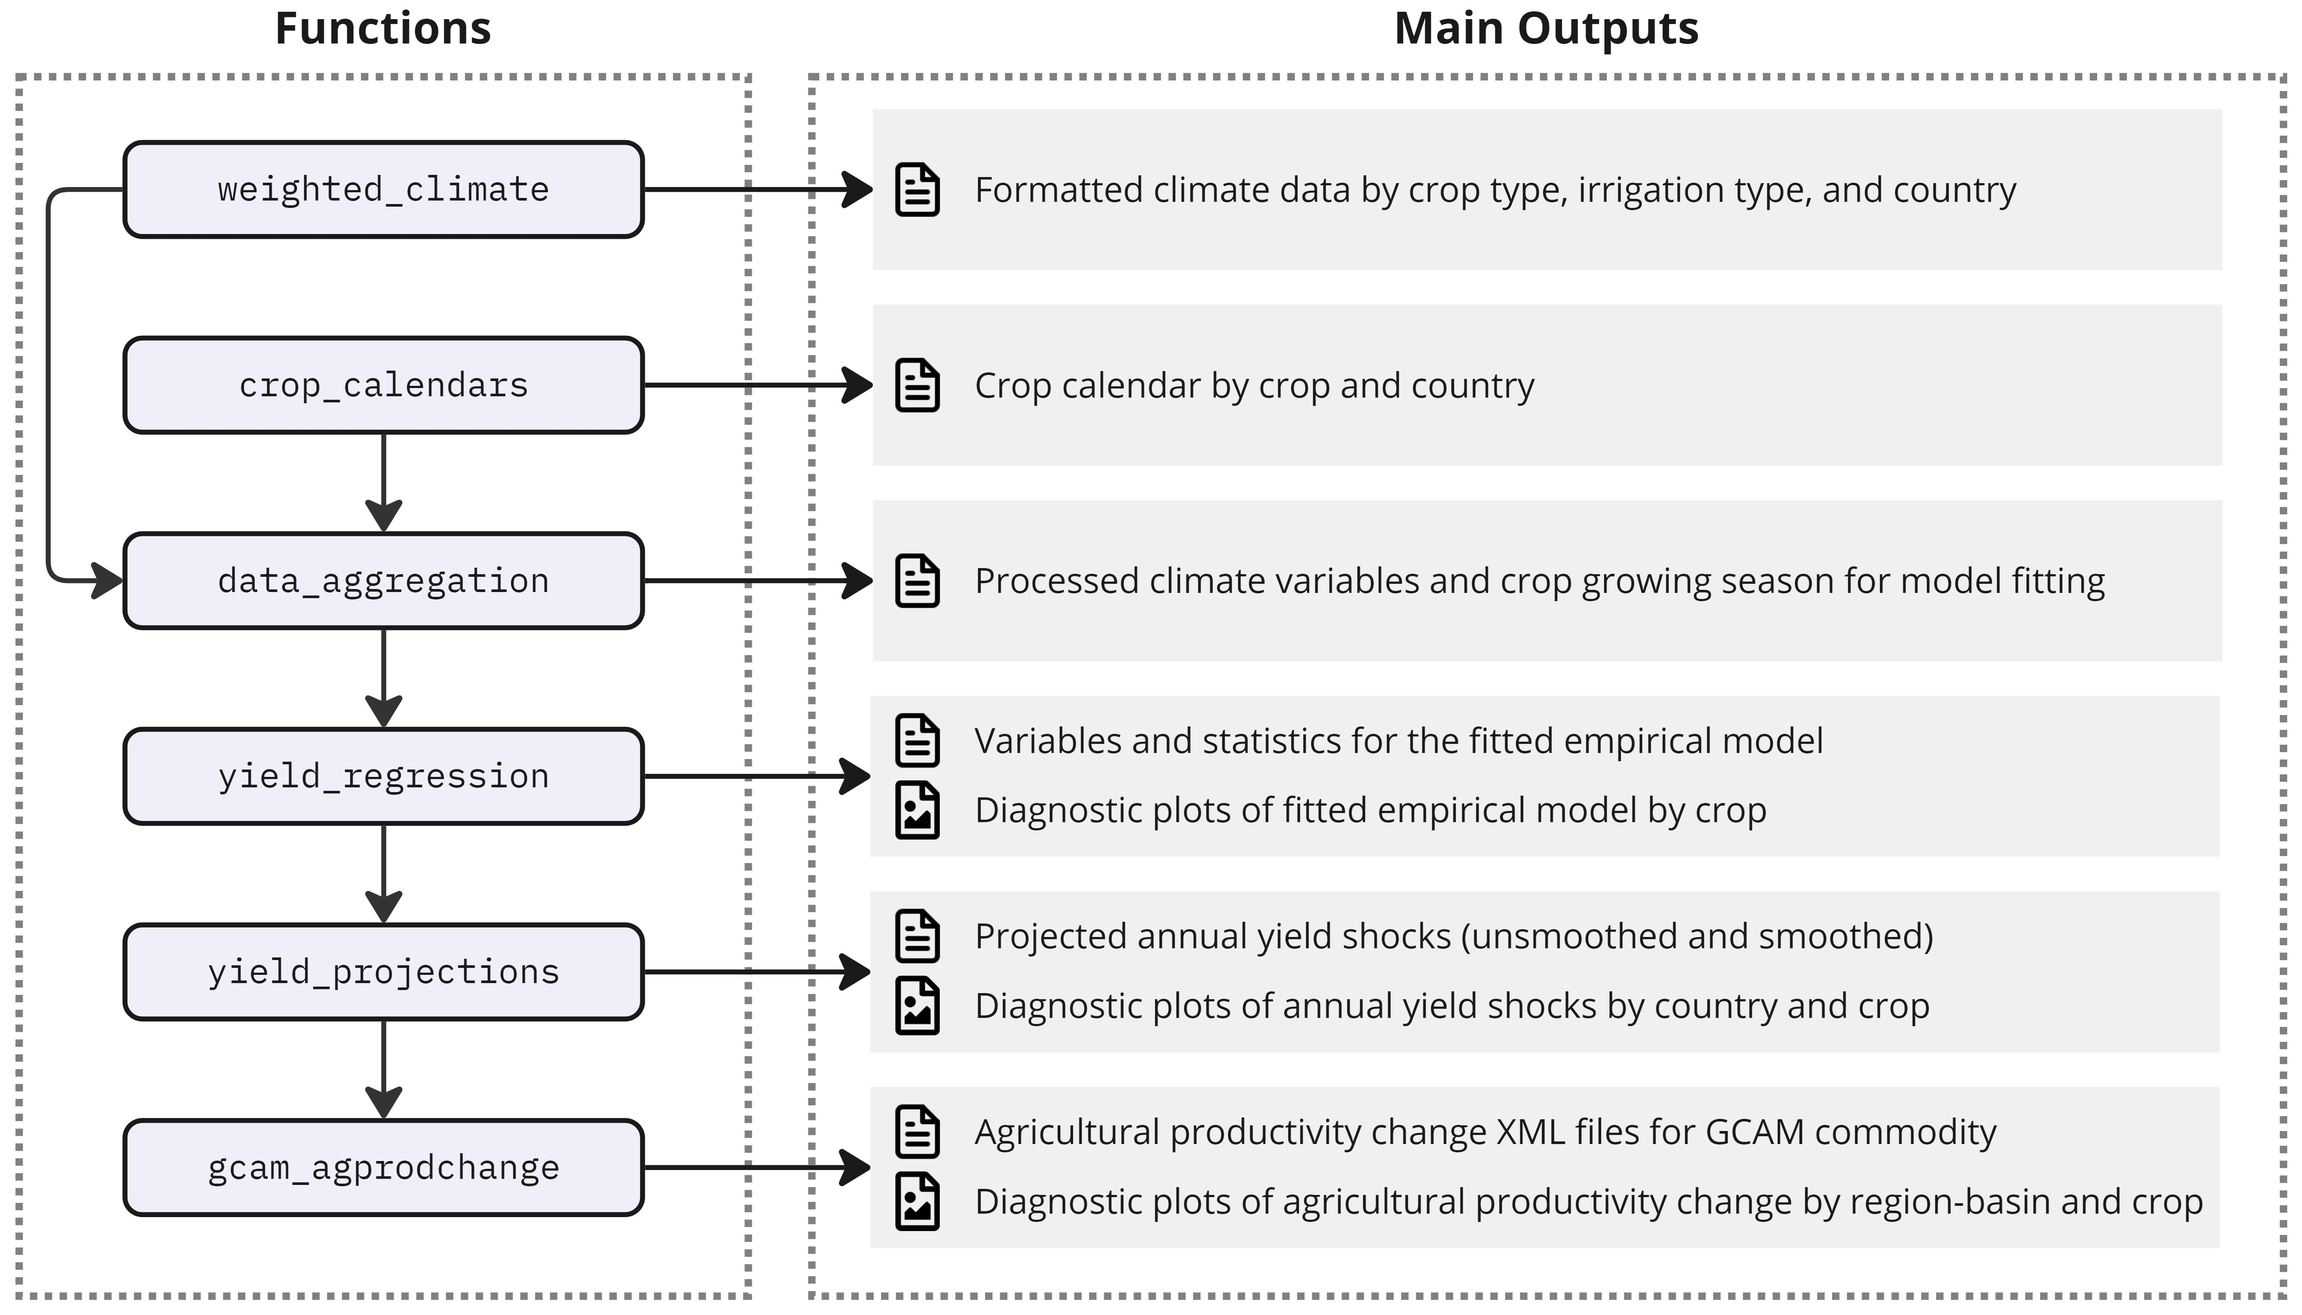
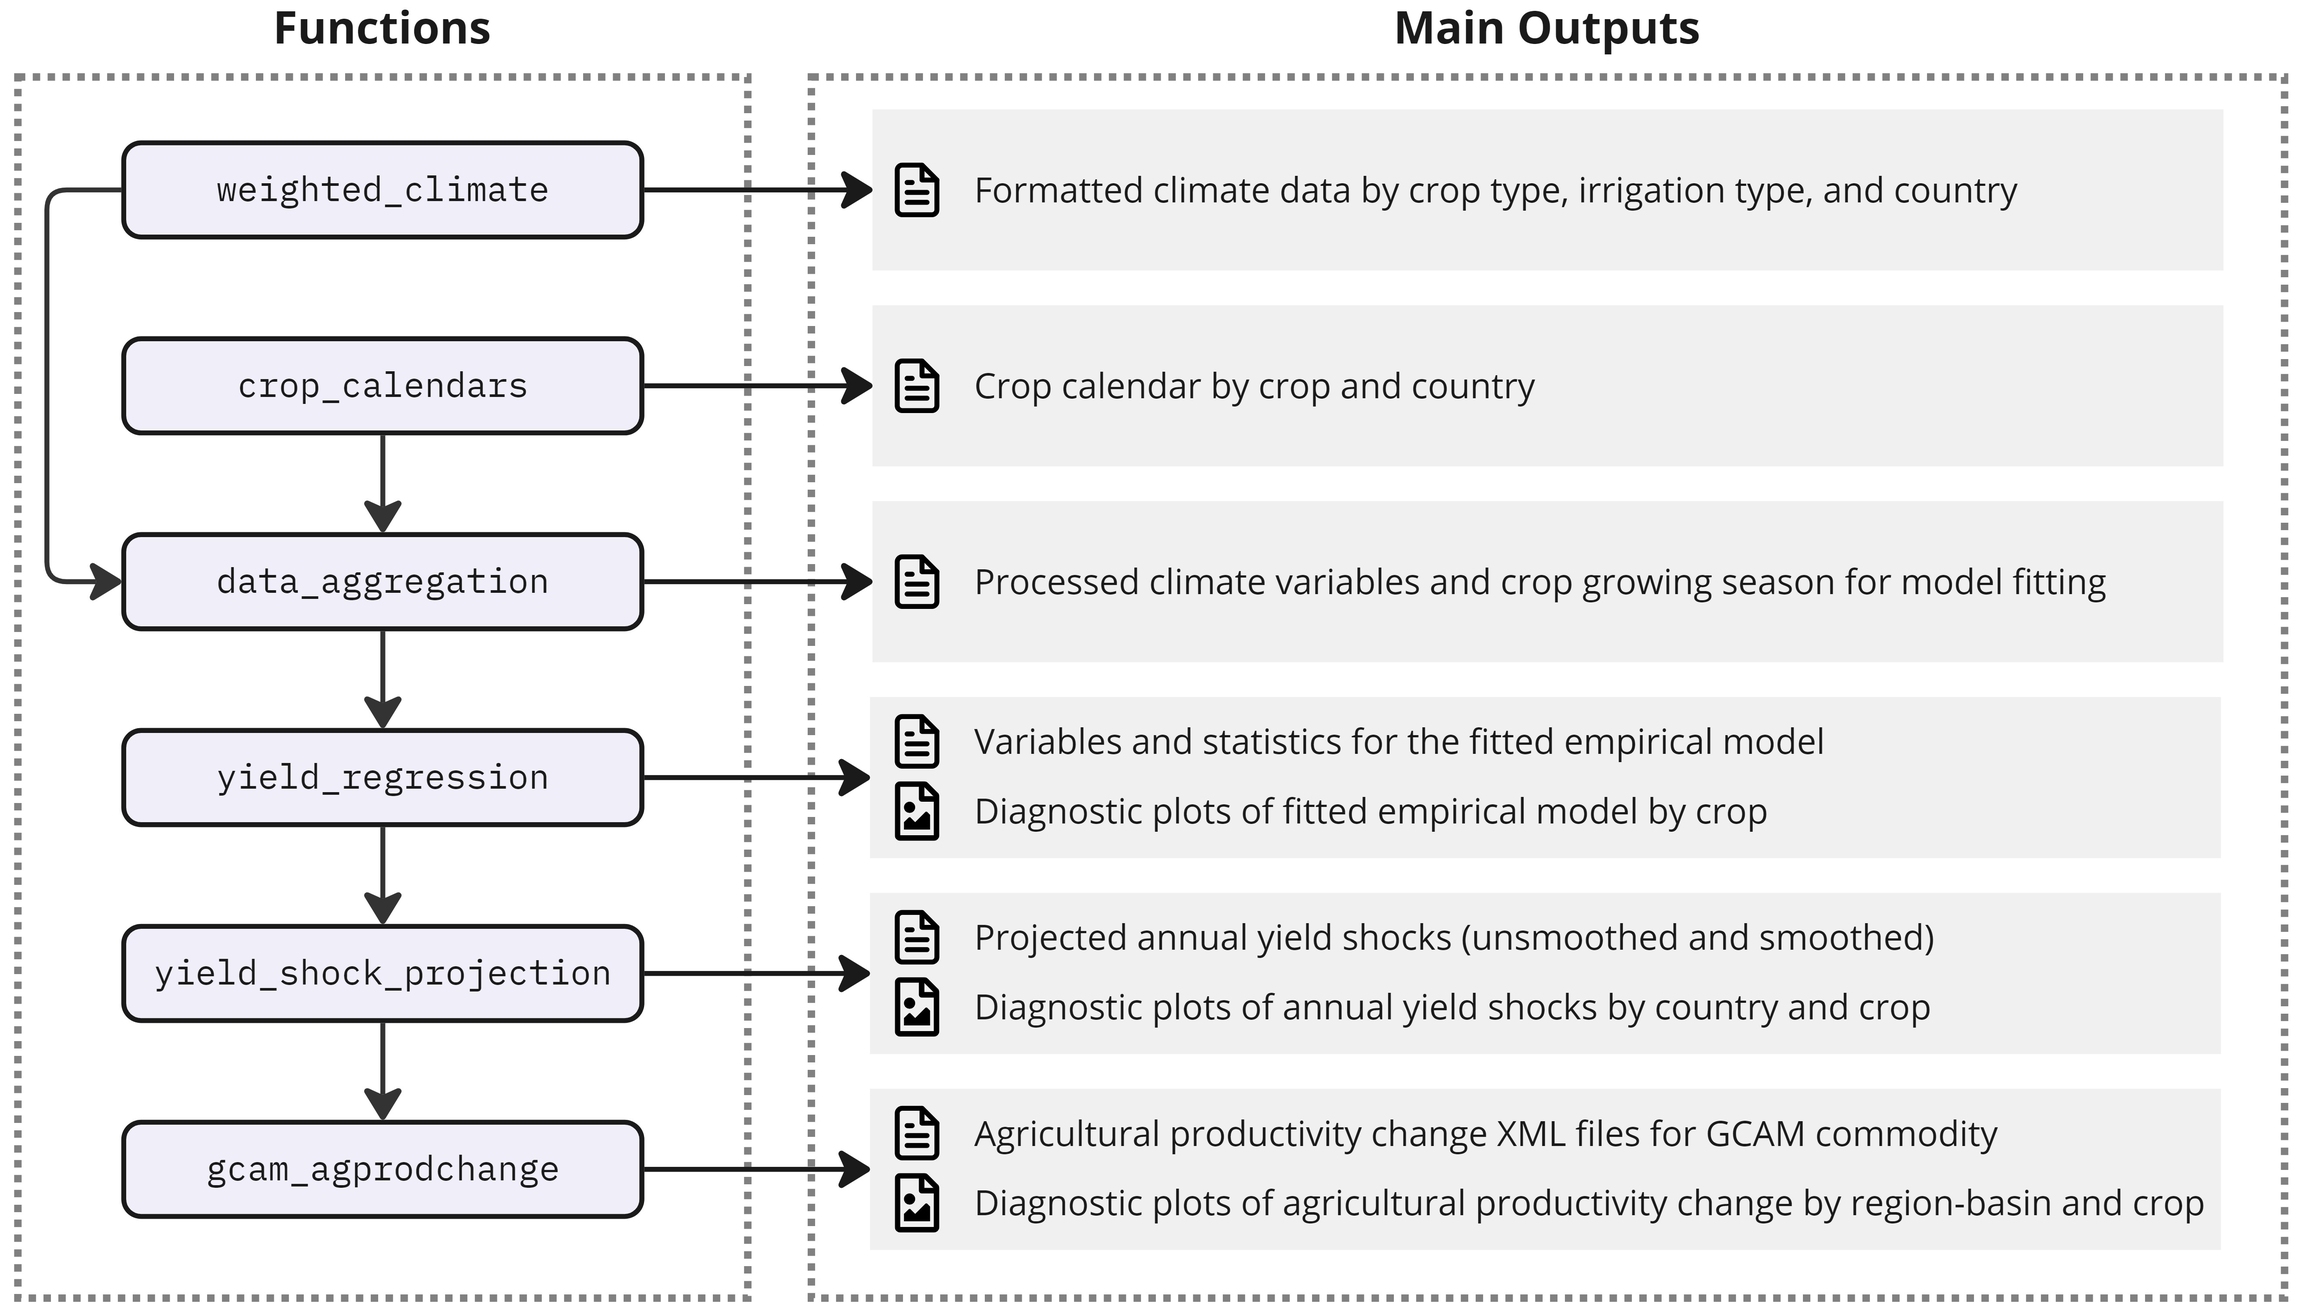
Update paper

diff --git a/paper/paper.md b/paper/paper.md
@@ -1,5 +1,5 @@
 ---
-title: 'gaea: An R package to estimate crop yield responses to temperature and precipitation'
+title: 'gaia: An R package to estimate crop yield responses to temperature and precipitation'
 
 tags:
   - 
@@ -20,41 +20,47 @@ authors:
 affiliations:
  - name: Pacific Northwest National Laboratory, Richland, WA, USA
    index: 1
- - name: Joint Global Change Research Institute, Pacific Northwest National Laboratory, College Park, MD, USA
+ - name: Pacific Northwest National Laboratory, Joint Global Change Research Institute, College Park, MD, USA
    index: 2
-date: July 2024
+date: 2024
 bibliography: paper.bib
 ---
 
 # Summary
 
-`gaea` is an open-source R package designed to estimate crop yield shocks in response to annual climate variations and CO2 concentrations at the country scale for 12 major crops. This innovative tool streamlines the workflow from raw climate data processing to the production of different forms of yield shock, such as agricultural productivity changes at the region-basin level, which can be directly integrated into the latest Global Change Analysis Model (GCAM) [@Bond-Lamberty_2024; @Calvin_2019]. At its core, `gaea` employs an empirical econometric model that leverages historical crop yield data (e.g., from [FAOSTAT](https://www.fao.org/faostat/en/#data/QCL)) and climate data for robust empirical fitting across diverse country-crop-climate combinations. `gaea` is fully compatible with the widely-used climate data from the Coupled Model Intercomparison Project Phase 6 (CMIP6), bias-adjusted by the Inter-Sectoral Impact Model Intercomparison Project ([ISIMIP](https://www.isimip.org/)). For future projections, the package aggregates global gridded precipitation and temperature data to the national level, weighted by cropland area derived from MIRCA [@Portmann_2010]. This approach enables the projection of annual yield shocks under various future climate scenarios, differentiated by crop type, country, and time. More broadly, `gaea` serves as a lightweight yet powerful model that equips researchers with the tools to explore the possibility space of global crop yields responses to future climate uncertainties, enhancing human-Earth system analysis capabilities.
+`gaia` is an open-source R package designed to estimate crop yield shocks in response to annual weather variations and CO^2 concentrations at the country scale for 12 major crops. It enables the projection of annual yield shocks under various future climate scenarios, differentiated by crop type, country, and year. This innovative tool streamlines the workflow from raw climate data processing to projections of annual shocks to crop yields at the country level, using the response surfaces developed and documented in @Waldhoff_2020, an empirical econometric model that leverages historical weather, CO^2, and crop yield data for robust empirical fitting for 12 crops. `gaia` uses these response surfaces with bias-corrected, gridded monthly temperature and precipitation projections (e.g., from the Coupled Model Intercomparison Project Phase 6 (CMIP6, @Oneil_2016) and Inter-Sectoral Impact Model Intercomparison Project (ISIMIP, @Warszawski_2014)) to project shocks that can be applied to agricultural productivity changes at the country-level for use in economic models. The historical and future projections use gridded, country-crop specific monthly growing season precipitation and temperature data, aggregated to the national level, weighted by cropland area derived from MIRCA [@Portmann_2010]. These annual, country, crop-specific yield shocks can be aggregated to different regional definitions, crop commodity definitions, and time periods (e.g., 20-year rolling-average trends), as needed by specific economic models. `gaia` serves as a lightweight, powerful model that equips researchers with projections of annual yield shocks for multiple crops, at a model-specific spatial resolution that is necessary to explore crop yields responses to a broad range of future climate projections, enhancing human-Earth system analysis capabilities.
 
 
 # Statement of need
 
-The global agricultural market, closely connected with energy and water systems, is highly responsive to climate change. Improving the representation of agricultural dynamics in global multi-sector models is the key to better understanding the human-Earth system interactions. While the impacts of mean historical and future climate change on crop yields have been extensively studied, there is a notable gap in understanding how climate variability affects crop yields and how these impacts evolve over time [@Ray_2015]. Multisector dynamics models such as GCAM, rely on exogenous inputs of yield responses to climate impacts as key drivers in simulating the co-evolution of energy, water, and land systems under future uncertainties. However, the current crop modeling landscape lacks globally comprehensive, computationally efficient, validated models capable of simulating yield responses to both inter-annual variability and long-term trends across a wide range of climate change scenarios and crop types [@Waldhoff_2020]. To address the gap, we have develop `gaea`, an empirical econometric model with capabilities to capture shocks to yields of a wide range of crops (cassava, cotton, maize, rice, potatoes, sorghum, soybean, sugarbeet, sugarcane, sunflower, and wheat) at country scales considering interannual climate variability. The detailed methodology is described in @Waldhoff_2020.
+Agricultural production is highly responsive to annual weather patterns, which are becoming increasingly variable in response to climate change (e.g. @Iizumi_2016). Agricultural markets are global, with significant volumes of international trade, and yield shocks due to this variability in one region will therefore impact others. In addition, agricultural production is closely connected with energy and water sectors. Improving the representation of agricultural production in global multi-sector dynamics models is the key to better understanding economic impacts of climate change that account for human-Earth system interactions. To better represent future agricultural production and study these interactions, multisector dynamics models, such as the Global Change Analysis Model (GCAM, @Calvin_2019, @GCAM_Documentation_2023), require projections of yield responses to changing weather patterns, which are key drivers of production and vital to understanding the co-evolution of energy, water, and land systems.
+
+Most economic, multisectoral modeling of climate change impacts on agriculture has relied on the representation of the effects of long term, gradual trends in temperature and precipitation on crop yields for a few key crops [@von-Lampe_2014]. Improved understanding of the effects of climate change on agricultural production requires projections of the impacts of annual weather changes on a broad range of crops for a range of climate projections [@Ray_2015]. However, the current crop modeling landscape lacks globally comprehensive, computationally efficient, validated models capable of simulating yield responses to both inter-annual variability and long-term trends across a wide range of climate change scenarios and crop types [@Waldhoff_2020]. To address the gap, we have developed `gaia`, which uses the empirical model described in @Waldhoff_2020. `gaia` produces projections of both future annual variations and long-term trends in yield changes at the country-level for a wide range of crops (cassava, cotton, maize, rice, potatoes, sorghum, soybean, sugar beet, sugarcane, sunflower, and wheat) using gridded monthly temperature and precipitation inputs for any future climate scenario.
 
 
 # States of the Field
 
-The exploration of future climate change impacts on agricultural production is crucial for providing insights into global food security. Various crop models, including process-based and empirical models, have been developed to simulate crop yields under different climate scenarios [@Chapagain_2022; @Rauff_2015]. @Muller_2017 conducted a global gridded crop model (GGCM) intercomparison experiment involving 14 crop models, including the widely-used Decision Support System for Agrotechnology Transfer (DSSAT) model [@Jones_2003]. DSSAT allows users to simulate diverse crop management options and associated risks by integrating knowledge on crops, soil, climate, and management practices. Another comparable tool is `osiris` [@Ahsan_2023], an emulator designed to process climate impacts on agricultural yields using gridded yield outputs from existing GGCMs. However, the yield responses to precipitation and temperature variations simulated by GGCMs are generally less sensitive compared to the reduced-form econometric models [@Mistry_2017] employed by `gaea`. In the multisector dynamics modeling field, there is a growing need for the crop models that can strike a balance between simulation fidelity and lightweight modeling capabilities. Such models are essential for exploring future climate scenarios with global coverage. `gaea` achieves this balance by employing computationally efficient statistical methods to model 12 major crops globally, while maintaining the sensitivity to capture both gradual climate changes and interannual variability impacts on crop yields.
+The exploration of effects of future climate change on agricultural production is crucial for providing insights into global food, energy, water, and economic development. Various crop models, including process-based and empirical models, have been developed to simulate crop yields under different climate scenarios [@Chapagain_2022; @Rauff_2015]. @Muller_2017 conducted a global gridded crop model (GGCM) intercomparison experiment involving 14 process-based crop models, which allow users to simulate diverse crop management options, soil types, and weather conditions. However, GGCMs require large amounts of site-specific data for calibration, making extension to many crops and regions more challenging [@Muller_2017]. In addition, these models can take significant time to run and the yield shock projections are often available for only a limited number of climate change scenarios.
+
+These considerations may limit the usefulness of yield changes from process models as inputs to global economic, multisector models, which include a wider range of crops and many future climate scenarios. In the multisector dynamics modeling field, there is a need for projections of future crop yield shocks due to changing climate and weather patterns that can strike a balance between simulation fidelity and lightweight modeling capabilities. Such models are essential for exploring a wide range of future climate scenarios with global coverage. `gaia` achieves this balance by employing computationally efficient statistical methods to model 12 major crops globally, while maintaining the sensitivity to capture both gradual climate changes and interannual variability impacts on crop yields. In addition, users can estimate yield shocks for additional crops by providing the appropriate input data.
+
 
 # Functionality
 
-`gaea` is designed with a climate-driven empirical model at its core, integrated into an efficient modular structure. This architecture streamlines the entire workflow, from initial climate and crop data processing through empirical model fitting, yield shock projections under future climate scenarios, to the calculation of agricultural productivity changes for GCAM. The modular design also facilitates comprehensive diagnostic outputs, enhancing the tool's utility for researchers and policymakers.
+`gaia` is designed as an empirical model, which is driven by monthly average growing season temperature and precipitation, integrated into an efficient modular structure. This architecture streamlines the entire workflow, from initial climate model and crop yield data inputs and processing, through empirical model fitting, yield shock projections under future climate scenarios, to the calculation of agricultural productivity changes for GCAM. The modular design also facilitates comprehensive diagnostic outputs, enhancing the tool’s utility for researchers and decision makers.
 
-The primary functionality of `gaea` is encapsulated in the `yield_impact` wrapper function, which executes the entire workflow from climate data processing to yield shock estimation. Users can also execute individual functions to work through the main steps of the process (\autoref{fig:workflow}). Detailed instructions on `gaea` can be accessed at https://jgcri.github.io/gaea.
+The primary functionality of `gaia` is encapsulated in the `yield_impact` wrapper function, which executes the entire workflow from climate data processing to yield shock estimation. Users can also execute individual functions to work through the main steps of the process (\autoref{fig:workflow}). Detailed instructions on `gaia` can be accessed at https://jgcri.github.io/gaia.
 
-1. `weighted_climate`: Processes CMIP-ISIMIP climate NetCDF data and calculates cropland-weighted precipitation and temperature at the country level, differentiated by crop type and irrigation type. The function accepts both daily or monthly climate data.
-2. `crop_calenders`: Generates crop planting months for each country based on crop calendar data [@Sacks_2010].
+
+1. `weighted_climate`: Processes CMIP-ISIMIP climate NetCDF data and calculates cropland-weighted precipitation and temperature at the country level, differentiated by crop type and irrigation type. The function accepts both daily or monthly climate data that are consistent with the CMIP-ISIMIP NetCDF data format
+2. `crop_calenders`: Generates crop planting months for each country and crop based on crop calendar data [@Sacks_2010].
 3. `data_aggregation`: Calculates crop growing seasons using climate variables processed by `weighted_climate` and crop calendars for both historical and projected periods. This function prepares climate and yield data for subsequent model fitting.
-4. `yield_regression`: Performs regression analysis based on historical crop yields and climate variations. The default econometric model applied in `gaea` is from @Waldhoff_2020. User can provide other formulas as long as it is using the same data from `data_aggregation`.
-5. `yield_projection`: Projects yield shocks for future climate scenarios using the fitted model.
-6. `gcam_agprodchange`: Remaps country-level yield shocks to GCAM-required spatial scales (i.e., region and basin intersections) based on harvest area and converts crops to GCAM commodities. This function calculates agricultural productivity growth (a key parameter for GCAM to estimate future yield) and creates ready-to-use XML outputs for GCAM.
+4. `yield_regression`: Performs regression analysis fitted with historical annual crop yields, monthly growing season temperature and precipitation, CO^2 concentrations, GDP per capita, and year. The default econometric model applied in `gaia` is from @Waldhoff_2020. User can specify alternative formulas that are consistent with the data processed in `data_aggregation`.
+5. `yield_shock_projection`: Projects yield shocks for future climate scenarios using the fitted model and temperature, precipitation, and CO^2 projections from the climate scenario.
+6. `gcam_agprodchange`: Remaps country-level yield shocks to GCAM-required spatial scales (i.e., region, basin, technology intersections), based on harvested areas, and aggregates crops to GCAM commodities. This function applies the projected shocks to GCAM scenario agricultural productivity growth rates (the unit used to project future yields in GCAM) and creates ready-to-use XML outputs for GCAM.
 
 
-![The gaea workflow showing the functions and the corresponding outputs of modeling crop yield shocks to climate variations using empritical econometric model. \label{fig:workflow}](workflow.jpg)
+![The gaia workflow showing the functions and the corresponding outputs of modeling crop yield shocks to weather variables using an empirical econometric model. \label{fig:workflow}](workflow.jpg)
 
 
 # Acknowledgements
